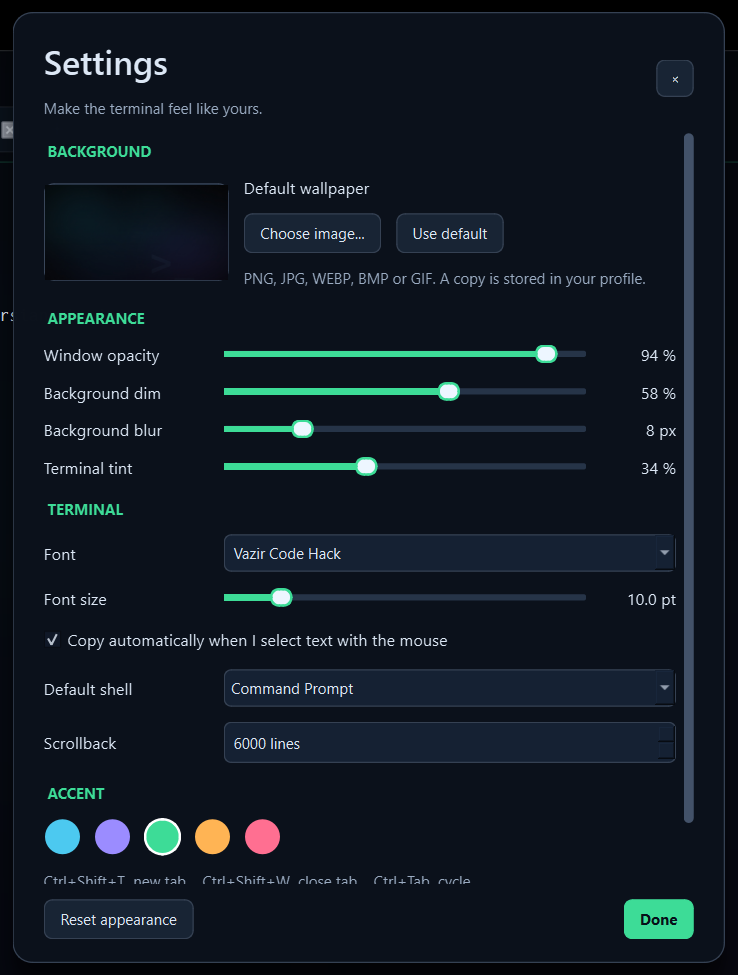
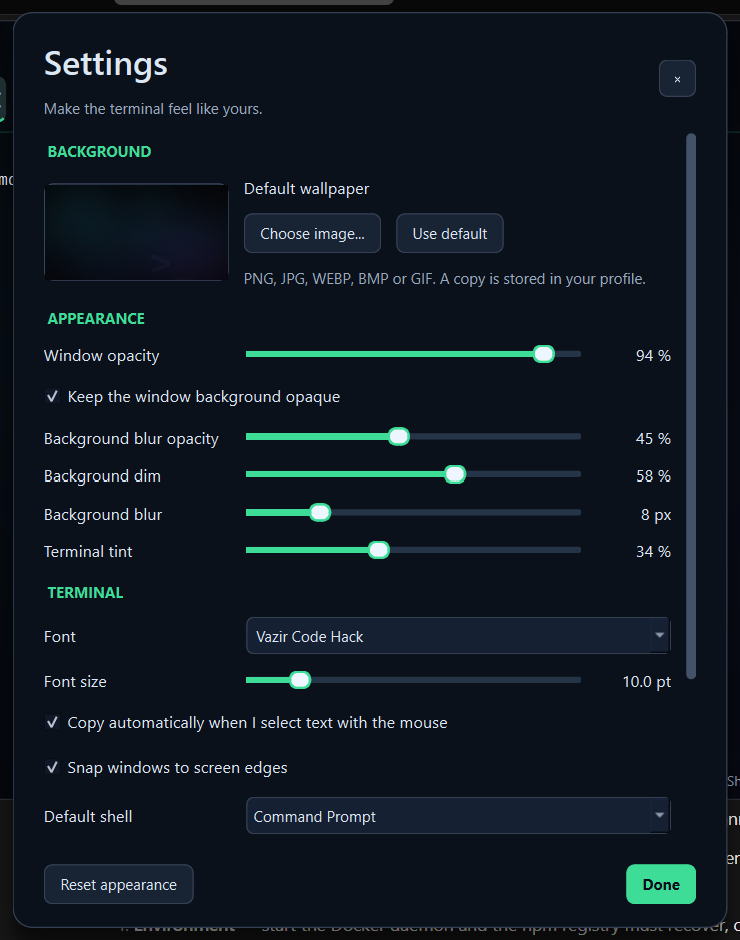
Keep the live blurred background smooth and refreshing

diff --git a/src/backdrop.cpp b/src/backdrop.cpp
@@ -13,12 +13,15 @@
 #include <windows.h>
 
 namespace {
-// The desktop is captured at a quarter of its physical size. The sample is
-// then blurred and stretched back to the window, which is both cheap and gives
-// the soft wash the backdrop is meant to look like.
-constexpr int kDesktopScale = 4;
+// The desktop is captured at half of its physical size. The sample is then
+// blurred and stretched back to the window, which is both cheap and gives the
+// soft wash the backdrop is meant to look like. Half resolution keeps the
+// stretched result smooth instead of blocky.
+constexpr int kDesktopScale = 2;
 // Blur radius in physical pixels; the sampler converts it to sample pixels.
 constexpr int kDesktopBlurRadius = 26;
+// Number of steps the cross-fade between two live samples runs over.
+constexpr int kFadeSteps = 6;
 }
 
 Backdrop::Backdrop(SettingsStore* store, QWidget* parent) : QWidget(parent), store_(store) {
@@ -29,13 +32,28 @@ Backdrop::Backdrop(SettingsStore* store, QWidget* parent) : QWidget(parent), sto
     connect(&debounce_, &QTimer::timeout, this, &Backdrop::rebuild);
 
     sampler_ = new DesktopSampler(this);
+    // The sampler delivers from its worker thread, so the hand-off is queued
+    // explicitly; the image is then stored and repainted on the interface
+    // thread.
     connect(sampler_, &DesktopSampler::sampled, this,
             [this](const QImage& image, const QPoint& origin, double pixelsPerPixel) {
+                // The previous frame is kept for a short cross-fade, so the
+                // backdrop flows into its new content instead of popping.
+                fading_ = desktop_;
                 desktop_ = image;
                 desktopOrigin_ = origin;
                 desktopPixelsPerPixel_ = pixelsPerPixel > 0.0 ? pixelsPerPixel : 1.0;
+                fadeStep_ = 0;
+                fadeTimer_.start();
                 update();
-            });
+            }, Qt::QueuedConnection);
+
+    fadeTimer_.setInterval(40);
+    connect(&fadeTimer_, &QTimer::timeout, this, [this] {
+        ++fadeStep_;
+        if (fadeStep_ >= kFadeSteps || fading_.isNull()) { fadeTimer_.stop(); fading_ = {}; }
+        update();
+    });
     applySettings();
 }
 
@@ -149,7 +167,18 @@ void Backdrop::paintDesktop(QPainter& painter) {
     const QRectF available(QPointF(0, 0), QSizeF(desktop_.size()));
     const QRectF visible = source.intersected(available);
     if (visible.isEmpty()) return;
-    painter.drawImage(QRectF(rect()), desktop_, visible);
+    const QRectF target(rect());
+    // While a cross-fade runs, the outgoing frame is drawn first and the new
+    // one is blended over it, so the change reads as a smooth transition.
+    if (!fading_.isNull()) {
+        const QRectF fadingAvailable(QPointF(0, 0), QSizeF(fading_.size()));
+        const QRectF fadingVisible = source.intersected(fadingAvailable);
+        if (!fadingVisible.isEmpty()) painter.drawImage(target, fading_, fadingVisible);
+        const qreal progress = qBound(0.0, qreal(fadeStep_) / qreal(kFadeSteps), 1.0);
+        painter.setOpacity(progress);
+    }
+    painter.drawImage(target, desktop_, visible);
+    painter.setOpacity(1.0);
 }
 
 void Backdrop::paintEvent(QPaintEvent*) {

diff --git a/tests/ui_tests.cpp b/tests/ui_tests.cpp
@@ -2,6 +2,7 @@
 #include "settings_dialog.h"
 #include "backdrop.h"
 #include "chrome.h"
+#include "desktop_sampler.h"
 #include "image_blur.h"
 #include "terminal_view.h"
 #include <QtTest>
@@ -42,6 +43,7 @@ private slots:
     void imageFormatsAndAtomicFailure();
     void allExifOrientations();
     void blurSmoothsWithoutShifting();
+    void desktopSamplerDeliversRepeatedSamples();
     void tabNamesIdsAndExport();
     void tabMenuTargetsStableIdentity();
     void quickCommandMenusAndPersistence();
@@ -72,6 +74,38 @@ void NativeUiTests::blurSmoothsWithoutShifting() {
     QCOMPARE(flatBlurred.pixelColor(7, 7), QColor(30, 90, 160));
     // A zero radius leaves the image untouched.
     QCOMPARE(blurImage(image, 0).pixelColor(3, 3), image.pixelColor(3, 3));
+}
+
+void NativeUiTests::desktopSamplerDeliversRepeatedSamples() {
+    // The live backdrop must keep producing samples instead of freezing on the
+    // first frame, so the sampler is asked for several rounds and each one has
+    // to arrive with a usable image.
+    QWidget host;
+    host.setWindowFlags(Qt::Window);
+    host.resize(320, 240);
+    host.show();
+    QVERIFY(QTest::qWaitForWindowExposed(&host));
+
+    DesktopSampler sampler;
+    sampler.setWindow(static_cast<quintptr>(host.winId()));
+    sampler.setScale(8);
+    sampler.setBlurRadius(4);
+    sampler.setRefreshInterval(120);
+    sampler.setActive(true);
+    QSignalSpy spy(&sampler, &DesktopSampler::sampled);
+    sampler.refresh();
+    QVERIFY(spy.wait(5000));
+    QCOMPARE(spy.count(), 1);
+    const QImage first = spy.at(0).at(0).value<QImage>();
+    QVERIFY(!first.isNull());
+    QVERIFY(first.width() > 0);
+    QVERIFY(first.height() > 0);
+    // A second sample has to follow, which is what keeps the backdrop live.
+    QVERIFY(spy.wait(5000));
+    QCOMPARE(spy.count(), 2);
+    const QImage second = spy.at(1).at(0).value<QImage>();
+    QCOMPARE(second.size(), first.size());
+    sampler.shutdown();
 }
 
 void NativeUiTests::settingsControlsAndReset() {

diff --git a/src/chrome.cpp b/src/chrome.cpp
@@ -25,17 +25,15 @@ QIcon controlIcon(const QString& kind, const QColor& color = QColor("#a4b2c7")) 
     else if (kind == "restore") { p.drawRect(QRectF(6, 9, 9, 9)); p.drawLine(9, 6, 18, 6); p.drawLine(18, 6, 18, 15); }
     else if (kind == "plus") { p.drawLine(7, 12, 17, 12); p.drawLine(12, 7, 12, 17); }
     else if (kind == "pin") {
-        // A thumbtack: the head sits on top, the needle points down.
-        QPainterPath head;
-        head.moveTo(9.5, 4.5);
-        head.lineTo(14.5, 4.5);
-        head.lineTo(14.5, 7.5);
-        head.lineTo(16.5, 10);
-        head.lineTo(7.5, 10);
-        head.lineTo(9.5, 7.5);
-        head.closeSubpath();
-        p.drawPath(head);
-        p.drawLine(QPointF(12, 10), QPointF(12, 19.5));
+        // A thumbtack: a flat cap on top, a body that narrows into a needle.
+        p.drawRoundedRect(QRectF(8, 4.5, 8, 3), 1.2, 1.2);
+        QPainterPath body;
+        body.moveTo(9.6, 7.5);
+        body.lineTo(11.1, 14.5);
+        body.lineTo(12.9, 14.5);
+        body.lineTo(14.4, 7.5);
+        p.drawPath(body);
+        p.drawLine(QPointF(12, 14.5), QPointF(12, 19.5));
     }
     else if (kind == "quick") {
         QPainterPath bolt;

diff --git a/src/desktop_sampler.cpp b/src/desktop_sampler.cpp
@@ -144,7 +144,8 @@ void DesktopSampler::capture() {
     const double ratio = grabbed.pixelsPerPixel > 0.0 ? grabbed.pixelsPerPixel : 1.0;
     const int radius = radius_.load(std::memory_order_relaxed);
     const int sampleRadius = qMax(1, qRound(radius / ratio));
-    // Emitted from the worker thread; the receiver lives in the interface
-    // thread, so the connection delivers the sample there.
-    emit sampled(blurImage(grabbed.image, sampleRadius), grabbed.origin, ratio);
+    // The image is produced here and delivered to the interface thread by the
+    // queued connection, so the copy is made while the sample is still valid.
+    const QImage image = blurImage(grabbed.image, sampleRadius);
+    emit sampled(image, grabbed.origin, ratio);
 }

diff --git a/src/backdrop.h b/src/backdrop.h
@@ -38,9 +38,11 @@ private:
     quintptr window_ = 0;
     QString loadedPath_;
     QString loadedStamp_;
-    QImage source_, blurred_, desktop_;
+    QImage source_, blurred_, desktop_, fading_;
     QPoint desktopOrigin_;
     double desktopPixelsPerPixel_ = 1.0;
     int appliedBlur_ = -1;
+    int fadeStep_ = 0;
     QTimer debounce_;
+    QTimer fadeTimer_;
 };
